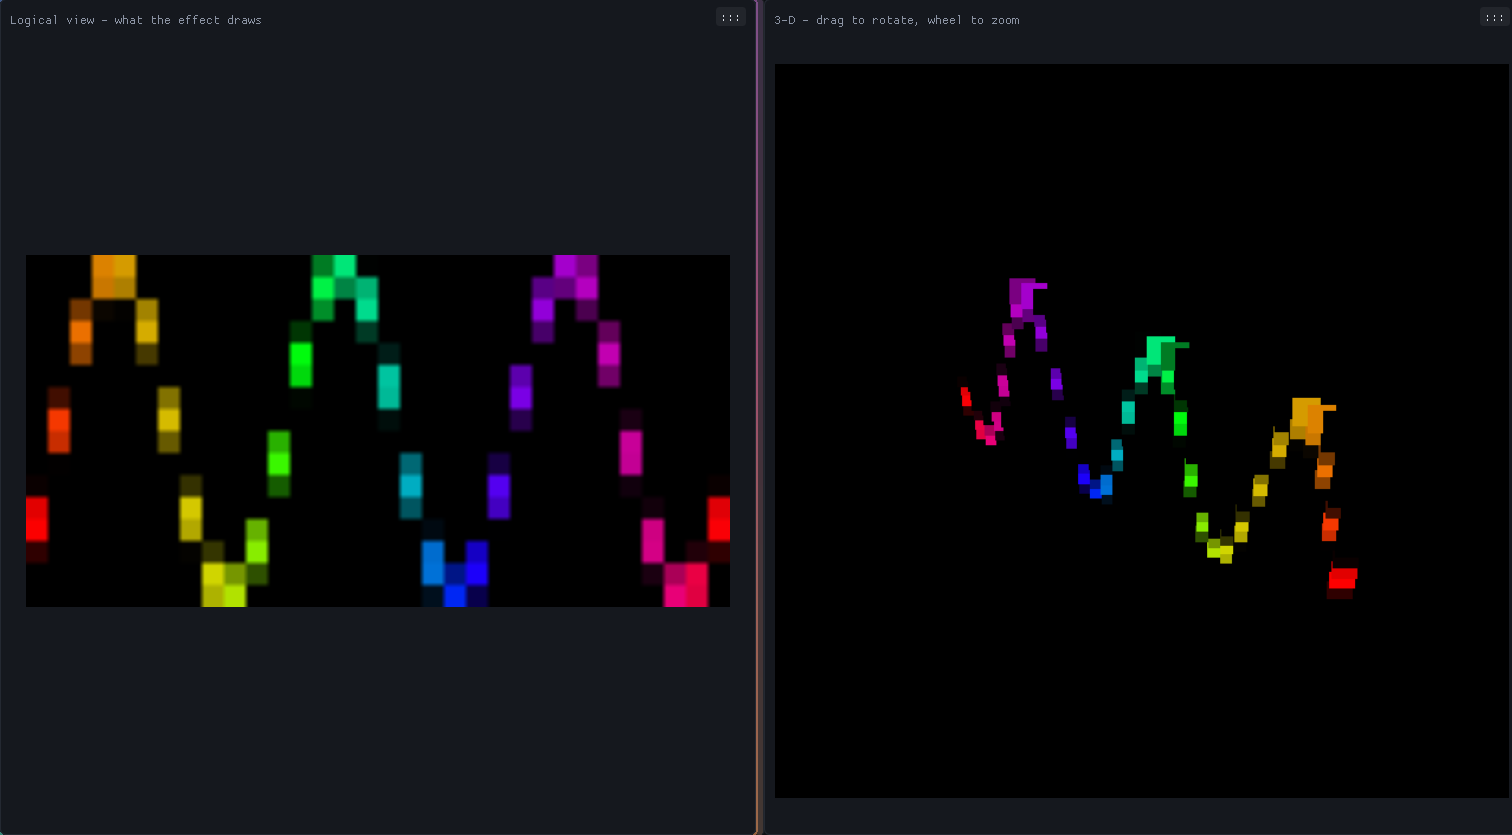
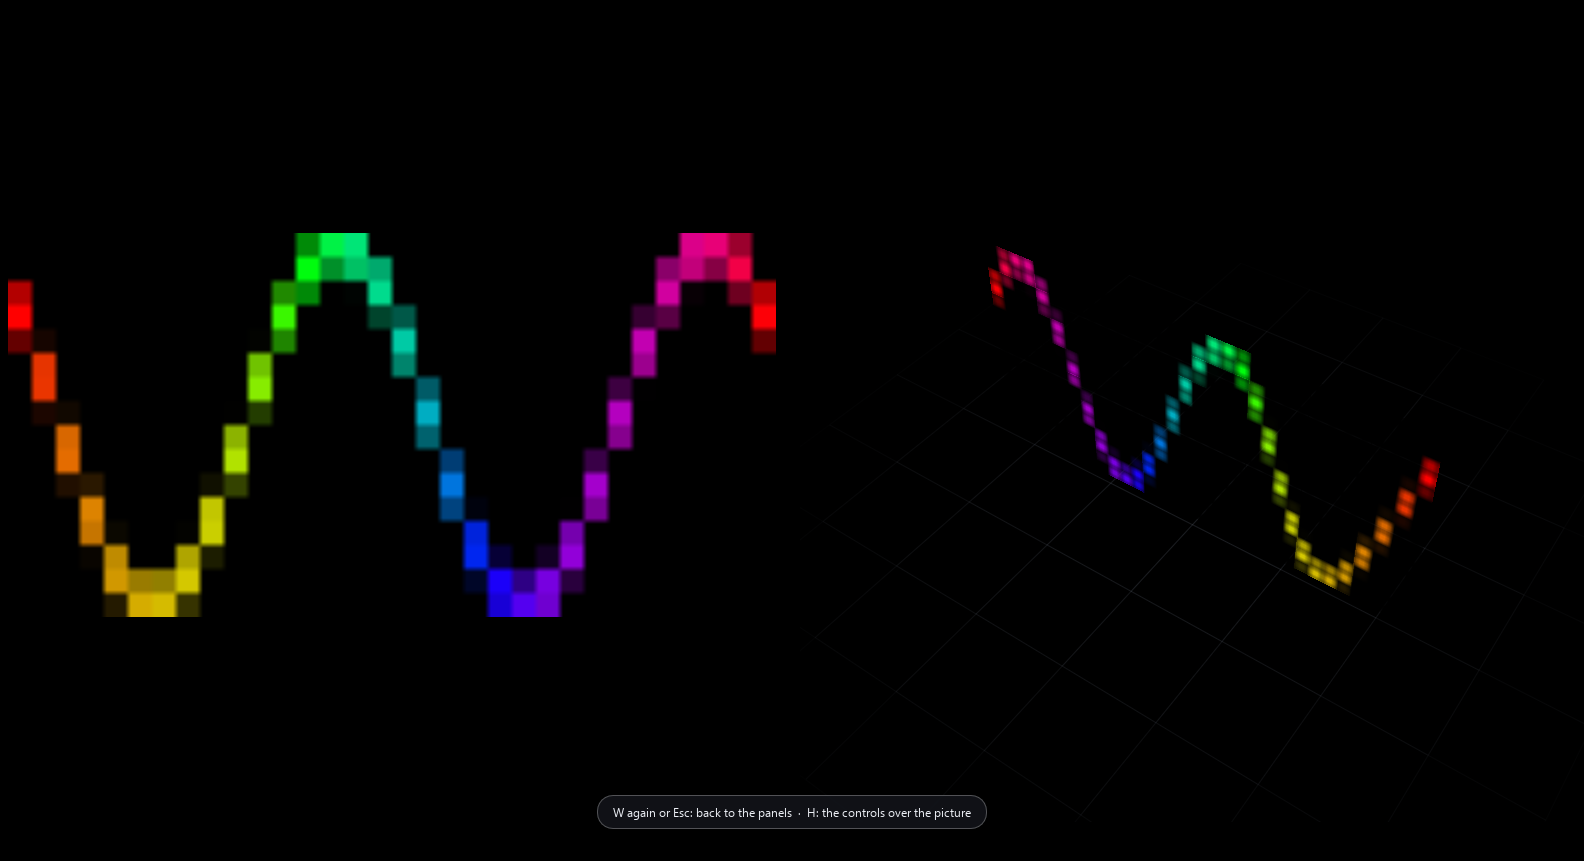
Tutorial: two waves that are two, the steps that did not work, new pictures
The sine tutorial wired Add's result into Wave's phase, and Add already
holds u, so "two full waves" drew three - as its own pictures showed. Phase
now comes from the Multiply, in the text and in the bundle.

Steps that did not match the studio:
- File > Project > Import graph bundle is File > Import graph bundle...
  (and in a release the bundle is under _internal/docs/tutorial/).
- W hides every control; W again or Esc comes back, H shows the controls
  over the picture. Ctrl+Shift+H never brought the Speed slider back.
- "Feed Wave through Remap into the line's thickness": Smoothstep's edges
  have no pin. Now a Multiply before Smoothstep, fed through Map range.
- "Multiply the two lines - a grid" gave only the crossings; Max makes it.
- The help box above the graph follows the pointer in canvas-first.
- Aurora Drift exists only in one local project; any graph reading
  Position is named instead.
- Slider x time is the shortest speed, not the way: it jumps while the
  slider moves. Integrate is named for that, and for bass driving it.
- Said where it is needed: dt is in ms, Speed's default on 0..255, Add
  outlined amber once it feeds nothing, a send needs the active device and
  this project's firmware, the tree's strands field and the star's PLACE,
  the 850 mA supply the limiter assumes, and ffmpeg for camera mapping.

tests/make_tutorial_shots.py starts a studio of its own (remote control,
no settings, a scratch project; only that PID is stopped), builds the
[…]

diff --git a/tests/make_tutorial_shots.py b/tests/make_tutorial_shots.py
@@ -1,0 +1,220 @@
+"""The sine-wave tutorial's pictures (docs/tutorial/step*_graph.png, step*_view.png, step5_result.png) and the
+camera-mapping dialog's (tree_camera.png), taken from
+the studio itself: a studio of this script's own is started with remote control on, the tutorial's graph is built
+in it step by step as TUTORIAL.md tells the reader to, and after each step the graph and the LEDs are captured from
+its frame buffer and cropped. Run again whenever the look of the graph or the views changes.
+
+    python tests/make_tutorial_shots.py
+
+The studio starts from no settings, as a new install does (projects/studio.json is put back after), in a scratch
+project (projects/tutorial_shots, removed after). Only the studio this script started is stopped. One studio test
+at a time: it drives the app through the same command file as tests/smoke_app.py. The finished graph's node places
+are written to docs/tutorial/sine_wave.graph.json, so the bundle a reader opens looks like the pictures."""
+# AI: below section was generated by an AI
+import json
+import os
+import shutil
+import subprocess
+import sys
+import time
+
+HERE = os.path.dirname(os.path.abspath(__file__))
+ROOT = os.path.dirname(HERE)
+sys.path.insert(0, ROOT)
+
+import numpy as np                                          # noqa: E402
+from PIL import Image                                       # noqa: E402
+from native import scratch                                  # noqa: E402
+
+OUT = os.path.join(ROOT, "docs", "tutorial")
+BUNDLE = os.path.join(OUT, "sine_wave.graph.json")
+PROJECT = "tutorial_shots"
+CMD = scratch.path("command.json")
+SHOT_REQ, SHOT_PNG = scratch.path("capture.request"), scratch.path("capture.png")
+RECTS = scratch.path("tutorial_rects.txt")
+VIEWPORT = (1600, 900)
+PAD = 8                                                     # around what a picture is cropped to
+
+# Where the nodes go once the tutorial adds its own (graph units). The starter's seven start where a new graph puts
+# them (native/graph.py starter); Add steps down out of the Wave's way, and Palette and Output move right as the
+# line's nodes come in - as a reader would make room.
+POS = {8: (460, 40), 5: (460, 330), 9: (660, 40), 10: (860, 40), 11: (1060, 40)}
+STEP3_OUT = {6: (1060, 180), 7: (1260, 180)}
+STEP4_OUT = {6: (1260, 180), 7: (1460, 180)}
+
+
+def send(cmds, wait=1.0):
+    """A batch of commands, once the app has taken the last; then `wait` seconds for it to act."""
+    end = time.time() + 60
+    while os.path.exists(CMD) and time.time() < end:
+        time.sleep(0.1)
+    if os.path.exists(CMD):
+        raise RuntimeError("the studio stopped taking commands")
+    scratch.write_whole(CMD, json.dumps(cmds))
+    time.sleep(wait)
+
+
+def py(expr, wait=0.6):
+    send([{"py": expr}], wait)
+
+
+def capture():
+    """The studio's window, from its frame buffer (native/remote.py service_capture)."""
+    if os.path.exists(SHOT_PNG):
+        os.remove(SHOT_PNG)
+    open(SHOT_REQ, "w").close()
+    end = time.time() + 20
+    while not os.path.exists(SHOT_PNG) and time.time() < end:
+        time.sleep(0.1)
+    time.sleep(0.3)
+    return Image.open(SHOT_PNG).convert("RGB")
+
+
+def node_rects():
+    """Each node's (min, max) on the screen."""
+    if os.path.exists(RECTS):
+        os.remove(RECTS)
+    py("open(" + repr(RECTS) + ", 'w').write(repr("
+       "[(dpg.get_item_rect_min(f'gnode_{n}'), dpg.get_item_rect_size(f'gnode_{n}')) for n in app.gp.graph.nodes]))", 1.0)
+    return [(a, (a[0] + s[0], a[1] + s[1])) for a, s in eval(open(RECTS).read())]   # rect_max falls short by the padding
+
+
+def crop(img, box, name):
+    x0, y0, x1, y1 = box
+    box = (max(0, x0 - PAD), max(0, y0 - PAD), min(img.width, x1 + PAD), min(img.height, y1 + PAD))
+    img.crop(tuple(int(v) for v in box)).save(os.path.join(OUT, name), optimize=True)
+
+
+def matrix_box(img, pane):
+    """The LEDs in the logical view's pane: every pixel unlike the pane's background (sampled just inside its left
+    edge, beside the matrix), the unlit LEDs' black included - inside the pane's frame and below its title."""
+    a = np.asarray(img).astype(int)
+    (px0, py0), (px1, py1) = pane
+    x0, y0, x1, y1 = int(px0) + 12, int(py0) + 40, int(px1) - 12, int(py1) - 12
+    sub = a[y0:y1, x0:x1]
+    bg = sub[sub.shape[0] // 2, 2]
+    ys, xs = np.nonzero(np.abs(sub - bg).max(axis=2) > 10)
+    return xs.min() + x0, ys.min() + y0, xs.max() + 1 + x0, ys.max() + 1 + y0
+
+
+def build(wait=6.0):
+    send([{"graph_build": True}], wait)
+
+
+def shoot(step):
+    send([{"layout": "graph"}, {"py": "room.set_tucked(app, True)"}], 1.0)
+    send([{"action": "frame_all"}, {"py": "app.gp.set_selection([]) or app.gp.end_key_selection()"}], 1.5)
+    img, r = capture(), node_rects()
+    crop(img, (min(a[0] for a, _ in r), min(a[1] for a, _ in r), max(b[0] for _, b in r), max(b[1] for _, b in r)),
+         f"step{step}_graph.png")
+    send([{"layout": "both"}], 2.0)                          # the panels: the logical view beside the 3-D one
+    if os.path.exists(RECTS):
+        os.remove(RECTS)
+    py("open(" + repr(RECTS) + ", 'w').write(repr((dpg.get_item_pos('net_win'), "
+       "[a + b for a, b in zip(dpg.get_item_pos('net_win'), dpg.get_item_rect_size('net_win'))])))", 1.0)
+    pane = eval(open(RECTS).read())
+    img = capture()
+    crop(img, matrix_box(img, pane), f"step{step}_view.png")
+    print(f"step {step}: captured")
+
+
+def link(a, out, b, inp):
+    return f"app.gp.graph.link({a}, {out!r}, {b}, {inp!r})"
+
+
+def add(nid, type_):
+    """A node added at its place; the ids follow on from the starter's seven (8 to 11)."""
+    x, y = POS[nid]
+    return f"app.gp.graph.add({type_!r}, ({x}, {y}))"
+
+
+def move(places):
+    """Nodes put at their places, {id: (x, y)}."""
+    sets = ", ".join(f"app.gp.graph.nodes[{n}].__setitem__('pos', [{x}, {y}])" for n, (x, y) in places.items())
+    return [{"py": f"app.gp._sync_pos() or [{sets}] and app.gp.rebuild()"}]
+
+
+def run():
+    send([{"viewport": list(VIEWPORT)}, {"project": PROJECT}], 4.0)
+    send([{"geometry": {"kind": "matrix", "params": {"w": 32, "h": 16}}}, {"layout": "graph"}], 2.0)
+    send([{"graph_new": "Sine Wave"}], 2.0)
+    build(); shoot(1)
+    # step 2: the Wave, along u, travelling with the slider-scaled clock, two cycles; its value into the palette
+    send(move({5: POS[5]}), 0.3)
+    py("[" + ", ".join([add(8, "Wave"), link(4, "u", 8, "x"), link(3, "result", 8, "phase"),
+                        link(8, "value", 6, "index")]) + "] and app.gp.rebuild()")
+    send([{"graph_input": [8, "cycles", 2.0]}], 0.3)
+    build(); shoot(2)
+    # step 3: the distance from the curve dims a left-to-right rainbow
+    send(move(STEP3_OUT), 0.3)
+    py("[" + ", ".join([add(9, "Subtract"), add(10, "Abs"), link(4, "v", 9, "a"), link(8, "value", 9, "b"),
+                        link(9, "result", 10, "x"), link(4, "u", 6, "index"), link(10, "result", 6, "brightness")])
+       + "] and app.gp.rebuild()")
+    build(); shoot(3)
+    # step 4: a soft switch turns the distance into a line
+    send(move(STEP4_OUT), 0.3)
+    py("[" + ", ".join([add(11, "Smoothstep"), link(10, "result", 11, "x"), link(11, "result", 6, "brightness")])
+       + "] and app.gp.rebuild()")
+    send([{"graph_param": [11, "e0", 0.12]}, {"graph_param": [11, "e1", 0.02]}], 0.3)
+    build(); shoot(4)
+    # step 5: W, the logical view and the 3-D one, full frame
+    send([{"action": "view_both"}], 2.5)
+    capture().save(os.path.join(OUT, "step5_result.png"), optimize=True)
+    print("step 5: captured")
+    # the camera-mapping dialog of the second tutorial (tree_camera.png), with a string of 500 on a 150 cm tree
+    send([{"action": "view_both"}, {"py": "camera_map_ui.show(app) or num.set('map_n', 500) or num.set('map_height', 150.0) "
+                                           "or camera_map_ui._plan_words(app)"}], 2.0)
+    if os.path.exists(RECTS):
+        os.remove(RECTS)
+    py("open(" + repr(RECTS) + ", 'w').write(repr((dpg.get_item_pos(camera_map_ui.TAG), "
+       "dpg.get_item_rect_size(camera_map_ui.TAG))))", 1.0)
+    (x, y), (w, h) = eval(open(RECTS).read())
+    img = capture()
+    img.crop((int(x), int(y), int(x + w), int(y + h))).save(os.path.join(OUT, "tree_camera.png"), optimize=True)
+    send([{"py": "dpg.hide_item(camera_map_ui.TAG)"}], 0.5)
+    print("the camera dialog: captured")
+    # the places into the bundle, the rest of it as it is
+    if os.path.exists(RECTS):
+        os.remove(RECTS)
+    py("open(" + repr(RECTS) + ", 'w').write(repr({k: list(n['pos']) for k, n in app.gp.graph.nodes.items()}))", 1.0)
+    places = eval(open(RECTS).read())
+    b = json.load(open(BUNDLE, encoding="utf-8"))
+    for n in b["graph"]["nodes"]:
+        n["pos"] = [round(v) for v in places[n["id"]]]
+    with open(BUNDLE, "w", encoding="utf-8", newline="\n") as f:
+        f.write(json.dumps(b, indent=1) + "\n")
+
+
+def main():
+    if not scratch.DIR:
+        print("no private scratch folder to drive the studio through (native/scratch.py)")
+        return 1
+    studio_file = os.path.join(ROOT, "projects", "studio.json")
+    saved = open(studio_file, encoding="utf-8").read() if os.path.exists(studio_file) else None
+    if saved is not None:
+        os.remove(studio_file)                              # from no settings: no frames docked where the graph goes
+    proj = os.path.join(ROOT, "projects", PROJECT)
+    for f in (CMD, SHOT_REQ):
+        if os.path.exists(f):
+            os.remove(f)
+    log = open(scratch.path("tutorial_shots.log"), "w")
+    env = dict(os.environ, STUDIO_NO_UPDATE_CHECK="1", STUDIO_NO_WELCOME="1", STUDIO_REMOTE_CONTROL="1")
+    proc = subprocess.Popen([sys.executable, "-u", "-m", "native.app"], cwd=ROOT, stdout=log, stderr=subprocess.STDOUT, env=env)
+    try:
+        time.sleep(9)
+        run()
+        return 0
+    finally:
+        proc.kill()                                         # this script's studio, by its own PID - never by name
+        time.sleep(1)
+        log.close()
+        if saved is not None:
+            open(studio_file, "w", encoding="utf-8").write(saved)
+        elif os.path.exists(studio_file):
+            os.remove(studio_file)
+        shutil.rmtree(proj, ignore_errors=True)
+
+
+if __name__ == "__main__":
+    sys.exit(main())
+# AI: end

diff --git a/TUTORIAL.md b/TUTORIAL.md
@@ -27,9 +27,10 @@ A few things you will do over and over:
 - **Set a value**: an input pin that has no wire shows a box - type in it.
   A node's own settings (like Wave's shape) are boxes on the node too.
 - **See it**: the bolt on the toolbar (**L**) turns on *live*: the effect
-  rebuilds itself a moment after every edit. F5 builds once. The 3-D pane
-  shows the matrix; **W** shows the flat logical view beside it.
-- Hover anything - a node, a pin - and the box above the graph explains it.
+  rebuilds itself a moment after every edit. F5 builds once. The 3-D view
+  in the corner of the graph shows the matrix.
+- Hover anything - a node, a pin - and a note beside the pointer explains
+  it.
 
 ## Step 1 - a new graph, and what comes with it
 
@@ -43,13 +44,17 @@ Read it left to right; wires go from an output to an input.
 
 - **Speed** - the Speed slider on the WLED page, as a number from 0 to 1.
   Its `value` output is the slider's position. (`label` and `default` are
-  what the slider is called on the device and where it starts.)
-- **Time** - the clock. `t` is seconds since the effect started; `dt` is
-  the length of this frame. Anything that moves reads one of these.
+  what the slider is called on the device and where it starts - `default`
+  on the device's own 0..255 scale, so 128 is half way.)
+- **Time** - the clock. `t` is in seconds; `dt` is the length of this
+  frame, in milliseconds. Anything that moves reads one of these.
 - **Multiply** - `a x b`. Here `a` is the slider and `b` is the clock, so
   `result` is *time scaled by the slider*: a phase that advances slowly
-  with the slider low and fast with it high. This pair - a slider into a
-  clock - is how nearly every moving effect takes its speed from WLED.
+  with the slider low and fast with it high. It is the shortest way to
+  give an effect a speed, with one catch: moving the slider rescales all
+  the time so far, so the picture jumps while you drag it. **Integrate**
+  (rate in, a phase out that only ever adds this frame's share) moves
+  smoothly instead - swap it in once the wave works.
 - **Coords** - where this pixel is. `u` runs 0 at the left edge to 1 at the
   right, `v` 0 at the top to 1 at the bottom. The graph runs once per
   pixel per frame, so anything wired from Coords varies across the panel.
@@ -75,12 +80,17 @@ saw, chosen by its `shape` box. Its `value` output is the wave's height,
 Wire it in:
 
 1. **Coords `u` -> Wave `x`**. The wave runs along the panel's width.
-2. **Add `result` -> Wave `phase`**. `phase` slides the wave along its x; the
-   scrolling number from Step 1 makes it travel. (You could wire Time's
-   `t` straight in, but then the slider would do nothing.)
+   (An unwired `x` reads `u` already; the wire just makes it plain.)
+2. **Multiply `result` -> Wave `phase`**. `phase` slides the wave along
+   its x; the slider-scaled clock makes it travel. (Time's `t` straight in
+   would move it too, but then the slider would do nothing. Add's result
+   would not do: it has `u` in it already, so the wave would get one cycle
+   more than `cycles` says.)
 3. Type `2` in Wave's `cycles` box: two full waves across the panel.
 4. For a first look, drag **Wave `value` -> Palette `index`**, replacing the
-   wire from Add. (Dropping a wire on a pin that has one swaps it.)
+   wire from Add. (Dropping a wire on a pin that has one swaps it.) Add
+   now feeds nothing - the studio outlines it in amber to say so; leave
+   it or delete it.
 
 ![step 2](docs/tutorial/step2_graph.png)
 
@@ -143,8 +153,9 @@ indexed by `u`; the colour goes out.
 
 ## Step 5 - see it, save it, ship it
 
-Press **W** for the logical view beside the 3-D one (the side panel is
-back with **Ctrl+Shift+H**):
+Press **W** for the flat logical view and the 3-D one side by side,
+full frame. **W** again (or Esc) brings the panels back; **H** shows the
+controls over the picture without leaving it:
 
 ![result](docs/tutorial/step5_result.png)
 
@@ -156,25 +167,31 @@ Change the palette in the EFFECT section and the line recolours.
   History keeps every save).
 - **Ctrl+I** adds it to the project's effects list, so it is built and
   exported with the project rather than only while you edit it.
-- To put it on a device: Device > *Send the graph as a script*
-  (no firmware build, it runs in the Studio Script effect within a couple
-  of seconds), or Build > *Flash firmware...* to compile it in as a real
-  effect. GUIDE.md has the details.
+- To put it on a device, pick it in **Devices** first. Then Device >
+  *Send the graph as a script* runs it within a couple of seconds, no
+  firmware build - on a device running this project's firmware, which has
+  the Studio Script effect (stock WLED does not; flash it once). Build >
+  *Flash firmware...* compiles it in as a real effect; that needs the WLED
+  checkout and PlatformIO. [GUIDE.md](GUIDE.md#getting-it-onto-the-cube)
+  has the details.
 
-The finished graph is in `docs/tutorial/sine_wave.graph.json`: File >
-Project > Import graph bundle opens it, if you would rather compare than
-build.
+The finished graph is `docs/tutorial/sine_wave.graph.json` (in a release,
+`_internal/docs/tutorial/`): File > *Import graph bundle...* opens it, if
+you would rather compare than build.
 
 ## Things to try
 
 - Wave's `shape` box: `triangle`, `square`, `saw`.
-- Wire **Coords `v`** into a second Wave and multiply the two lines - a
-  grid of moving waves.
-- Feed **Wave `value`** through **Remap** into the line's thickness: a
-  line that swells at its crests.
-- Replace Speed with the **Audio** node's `bass` output at the Multiply:
-  the wave scrolls with the music.
-- Hover any node for its description; NODES.md lists them all.
+- Wire **Coords `v`** into a second Wave, make a second line from it the
+  same way, and join the two with **Max**: a grid of moving waves.
+- Put a **Multiply** between Abs and Smoothstep, and feed its `b` from
+  **Wave `value`** through **Map range** (out 1.5 to 0.5): the distance
+  shrinks at the crests, so the line swells there.
+- Swap the Multiply for an **Integrate** and wire the **Audio** node's
+  `bass` into its `rate`: the wave scrolls faster when the bass is loud.
+  (Bass straight into the Multiply would make it lurch back and forth.)
+- Hover any node for its description; [NODES.md](NODES.md) lists them
+  all.
 
 # Tutorial 2: a Christmas tree in 3-D
 
@@ -226,8 +243,9 @@ from above, **0** from three-quarters, **F** frames the selection and
 ## Step 3 - a star on top
 
 **Add part...**, then **star** under FLAT: 5 points, 8 LEDs an edge,
-**Add**. It lands beside the tree, next after it in the wiring. Put it
-on top: in its PLACE, type the position's height - the third field - as
+**Add**. It lands beside the tree, next after it in the wiring, and is
+selected, so the Shape frame shows its settings. Put it on top: in its
+**PLACE** section, type the position's height - the third field - as
 85 cm (the tree's middle is at 0, so its tip is at 75), and press
 **upright** so it stands facing the front. (Or from the keyboard, the
 pointer on the view: G, then Z, move the pointer up until the star sits
@@ -245,22 +263,24 @@ Under the frame's tools, the checks:
 view. With an even number of strands, every other one coming down, the
 tree's wiring ends at its foot, and the star, next in the wiring, is at
 the top: a data wire that long may want a buffer. Select the tree and
-make it **9** strands. An odd number ends at the top, beside the star:
+make it **9** strands (its **strands** field, in the Shape frame). An odd number ends at the top, beside the star:
 the lead is 26 cm, and the check goes.
 
 ![nine strands](docs/tutorial/tree_nine.png)
 
 The other line is the power: 440 LEDs at full white would draw 24 A,
 and the brightness limiter keeps them to what the **Outputs** frame says
-your supply gives - **show me** opens it.
+your supply gives - **show me** opens it. Until you set your supply there
+it assumes WLED's default of 850 mA, so the tree is dim on the device;
+set the real figure before judging the brightness.
 
 ## Step 5 - light it
 
 Close the Shape frame: the effect in the side panel's EFFECT section
 runs on the tree. Effects made for any shape follow its real positions -
-the project's own (Aurora Drift here: its colours drift through the
-room, so the strands and the star share them) and WLED's 1-D effects,
-along the wiring.
+the project's graph effects that read **Position** (the picture: one
+whose colours drift through the room, so the strands and the star share
+them) and WLED's 1-D effects, along the wiring.
 
 ![aurora drift](docs/tutorial/tree_effect.png)
 
@@ -287,6 +307,9 @@ shows what the sim shows. The device's LED count has to match; the **Outputs** f
 what it carries.
 
 ## Lights in no pattern: mapped by camera
+
+This part reads films and webcams through **ffmpeg**, which the studio
+does not include: install it and put it on the PATH first.
 
 A string wound round a real tree has no pattern to type. **Map lights by
 camera...** (on the start, or the Shape frame's File...) finds each LED:
